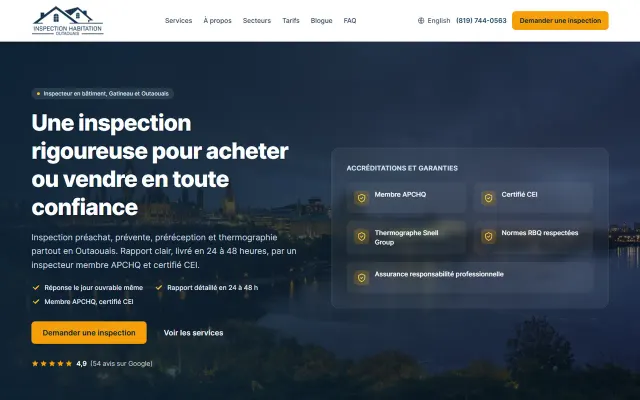
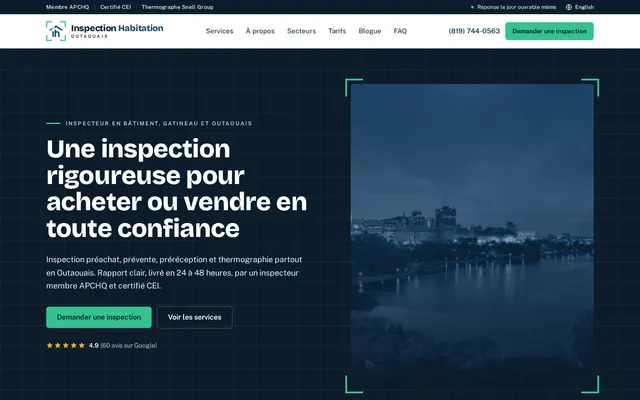
IHO : captures et mesure de la nouvelle version (préversion), en-tête opaque sur mobile
- Fiche IHO : capture principale, page Préachat et accueil mobile pris sur la
  préversion Cloudflare (bannière refusée), légende « Nouvelle version, en ligne
  sous peu », section « Autres captures de la nouvelle version ».
- Mesure Lighthouse mobile de la préversion (médiane de 3 essais : Performance 100,
  Accessibilité 100), SEO non affiché car la préversion est en noindex.
- Champ « préversion » : les liens de la fiche pointent vers la préversion
  tant que le domaine n'est pas transféré.
- En-tête collant opaque sous 1024 px : un bouton passant dessous transparaissait
  sous le logo.

diff --git a/src/i18n/fr.ts b/src/i18n/fr.ts
@@ -55,12 +55,14 @@ export const fr = {
   // Measured Lighthouse scores of a client's live site (data/lighthouse.ts).
   lighthouse: {
     caseTitle: 'Mesure du site en ligne',
+    caseTitlePreview: 'Mesure de la nouvelle version',
     labels: {
       performance: 'Performance',
       accessibility: 'Accessibilité',
       seo: 'SEO',
     },
     method: (date: string, url: string, tool: string) => `Mesuré le ${date} sur ${url} avec ${tool}, profil mobile, médiane de trois essais.`,
+    methodPreview: (date: string, url: string, tool: string) => `Préversion, mesurée le ${date} sur ${url} avec ${tool}, profil mobile, médiane de trois essais. SEO non affiché : une préversion est exclue des moteurs de recherche.`,
   },
 
   servicesSection: {
@@ -247,6 +249,8 @@ export const fr = {
     testimonial: 'Témoignage',
     delivery: 'Délai',
     gallery: 'Autres captures du site en ligne',
+    galleryPreview: 'Autres captures de la nouvelle version',
+    previewCaption: 'Nouvelle version, en ligne sous peu',
     seeAlso: 'Voir aussi',
     seeAlsoService: (t: string) => `Le service : ${t}`,
     seeAlsoCity: (n: string) => `Création de site web à ${n}`,

diff --git a/src/i18n/en.ts b/src/i18n/en.ts
@@ -44,12 +44,14 @@ export const en: Widen<Dict> = {
 
   lighthouse: {
     caseTitle: 'Live site, measured',
+    caseTitlePreview: 'Measurement of the new version',
     labels: {
       performance: 'Performance',
       accessibility: 'Accessibility',
       seo: 'SEO',
     },
     method: (date: string, url: string, tool: string) => `Measured on ${date} on ${url} with ${tool}, mobile profile, median of three runs.`,
+    methodPreview: (date: string, url: string, tool: string) => `Preview, measured on ${date} on ${url} with ${tool}, mobile profile, median of three runs. SEO not shown: a preview is kept out of search engines.`,
   },
 
   servicesSection: {
@@ -235,6 +237,8 @@ export const en: Widen<Dict> = {
     testimonial: 'Testimonial',
     delivery: 'Delivery',
     gallery: 'More screenshots of the live site',
+    galleryPreview: 'More screenshots of the new version',
+    previewCaption: 'New version, going live soon',
     seeAlso: 'See also',
     seeAlsoService: (t: string) => `The service: ${t}`,
     seeAlsoCity: (n: string) => `Web design in ${n}`,

diff --git a/src/data/lighthouse.ts b/src/data/lighthouse.ts
@@ -22,9 +22,13 @@ export interface LighthouseScore {
   /** The URL actually measured. */
   url: string;
   tool: string;
+  /** True when `url` is a preview of a new version, not the live domain. */
+  preview: boolean;
 }
 
-type Raw = { url: string; performance: number; accessibility: number; seo: number; lcpMs: number; cls: number };
+// `seo` is null for a preview: previews carry `noindex`, so their SEO score says
+// nothing about the site that will go live.
+type Raw = { url: string; preview?: boolean; performance: number; accessibility: number; seo: number | null; lcpMs: number; cls: number };
 const sites = (data.sites ?? {}) as Record<string, Raw>;
 
 /** Keyed by project slug. */
@@ -40,6 +44,7 @@ export const lighthouse: Record<string, LighthouseScore> = Object.fromEntries(
       measured: data.measuredAt,
       url: s.url,
       tool: data.tool,
+      preview: s.preview ?? false,
     },
   ]),
 );

diff --git a/src/content.config.ts b/src/content.config.ts
@@ -79,6 +79,9 @@ const projets = defineCollection({
     logo: z.string().optional(),
     /** Live URL. Empty while the site is not online yet. */
     lien: z.string(),
+    /** Optional preview of a new version not yet on the domain: the case study's links point
+        there, the screenshots are labelled as the new version. Remove once the domain switches. */
+    préversion: z.string().optional(),
     /** False while the site is built but not online yet (shown as such). */
     enLigne: z.boolean().default(true),
     /** Screenshot under public/, 1280×800 WebP. Empty: no capture yet, no frame. */

diff --git a/src/data/projets.ts b/src/data/projets.ts
@@ -34,6 +34,8 @@ export interface Project {
   featured: boolean;
   order: number;
   url: string;
+  /** Preview of a new version not yet on the domain, or null (see `préversion`). */
+  preview: string | null;
   /** False while the project is built but not online yet. */
   live: boolean;
   image: string;
@@ -96,6 +98,7 @@ function toProject(entry: CollectionEntry<'projets'>): Project {
     featured: d.vedette,
     order: d.ordre,
     url: d.lien,
+    preview: d.préversion ?? null,
     live: d.enLigne && Boolean(d.lien),
     image: d.image,
     year: d.année,

diff --git a/src/content/projets/inspection-habitation-outaouais.md b/src/content/projets/inspection-habitation-outaouais.md
@@ -30,12 +30,27 @@ résultat:
   en: "The site is live at inspectionhab.ca, in French and English, with one page per service."
 ville: "gatineau"
 lien: "https://inspectionhab.ca"
+# Nouvelle version en préversion Cloudflare tant que le domaine n'est pas transféré.
+# Après la bascule : retirer cette ligne et remesurer (node scripts/measure-clients.mjs).
+préversion: "https://ebe6af57.inspectionhab-39r.pages.dev"
 image: "/work/inspection-habitation-outaouais.webp"
+captures:
+  - src: "/work/inspection-habitation-outaouais-preachat.webp"
+    alt:
+      fr: "Page Inspection préachat de la nouvelle version du site d’Inspection Habitation Outaouais, sur ordinateur"
+      en: "Pre-purchase inspection page of the new Inspection Habitation Outaouais website, on desktop"
+    largeur: 1280
+    hauteur: 800
+  - src: "/work/inspection-habitation-outaouais-mobile.webp"
+    alt:
+      fr: "Accueil de la nouvelle version du site d’Inspection Habitation Outaouais sur téléphone"
+      en: "Home page of the new Inspection Habitation Outaouais website on a phone"
+    largeur: 750
+    hauteur: 1624
 aFournir:
   - "Lighthouse de l’ancien site, s’il en existait un"
   - "délai de livraison du projet"
   - "résultats depuis la mise en ligne (demandes reçues, trafic), si le client accepte de les publier"
-  - "2 à 3 captures supplémentaires (page de service, mobile)"
 ordre: 4
 statut: publié
 preuve:
